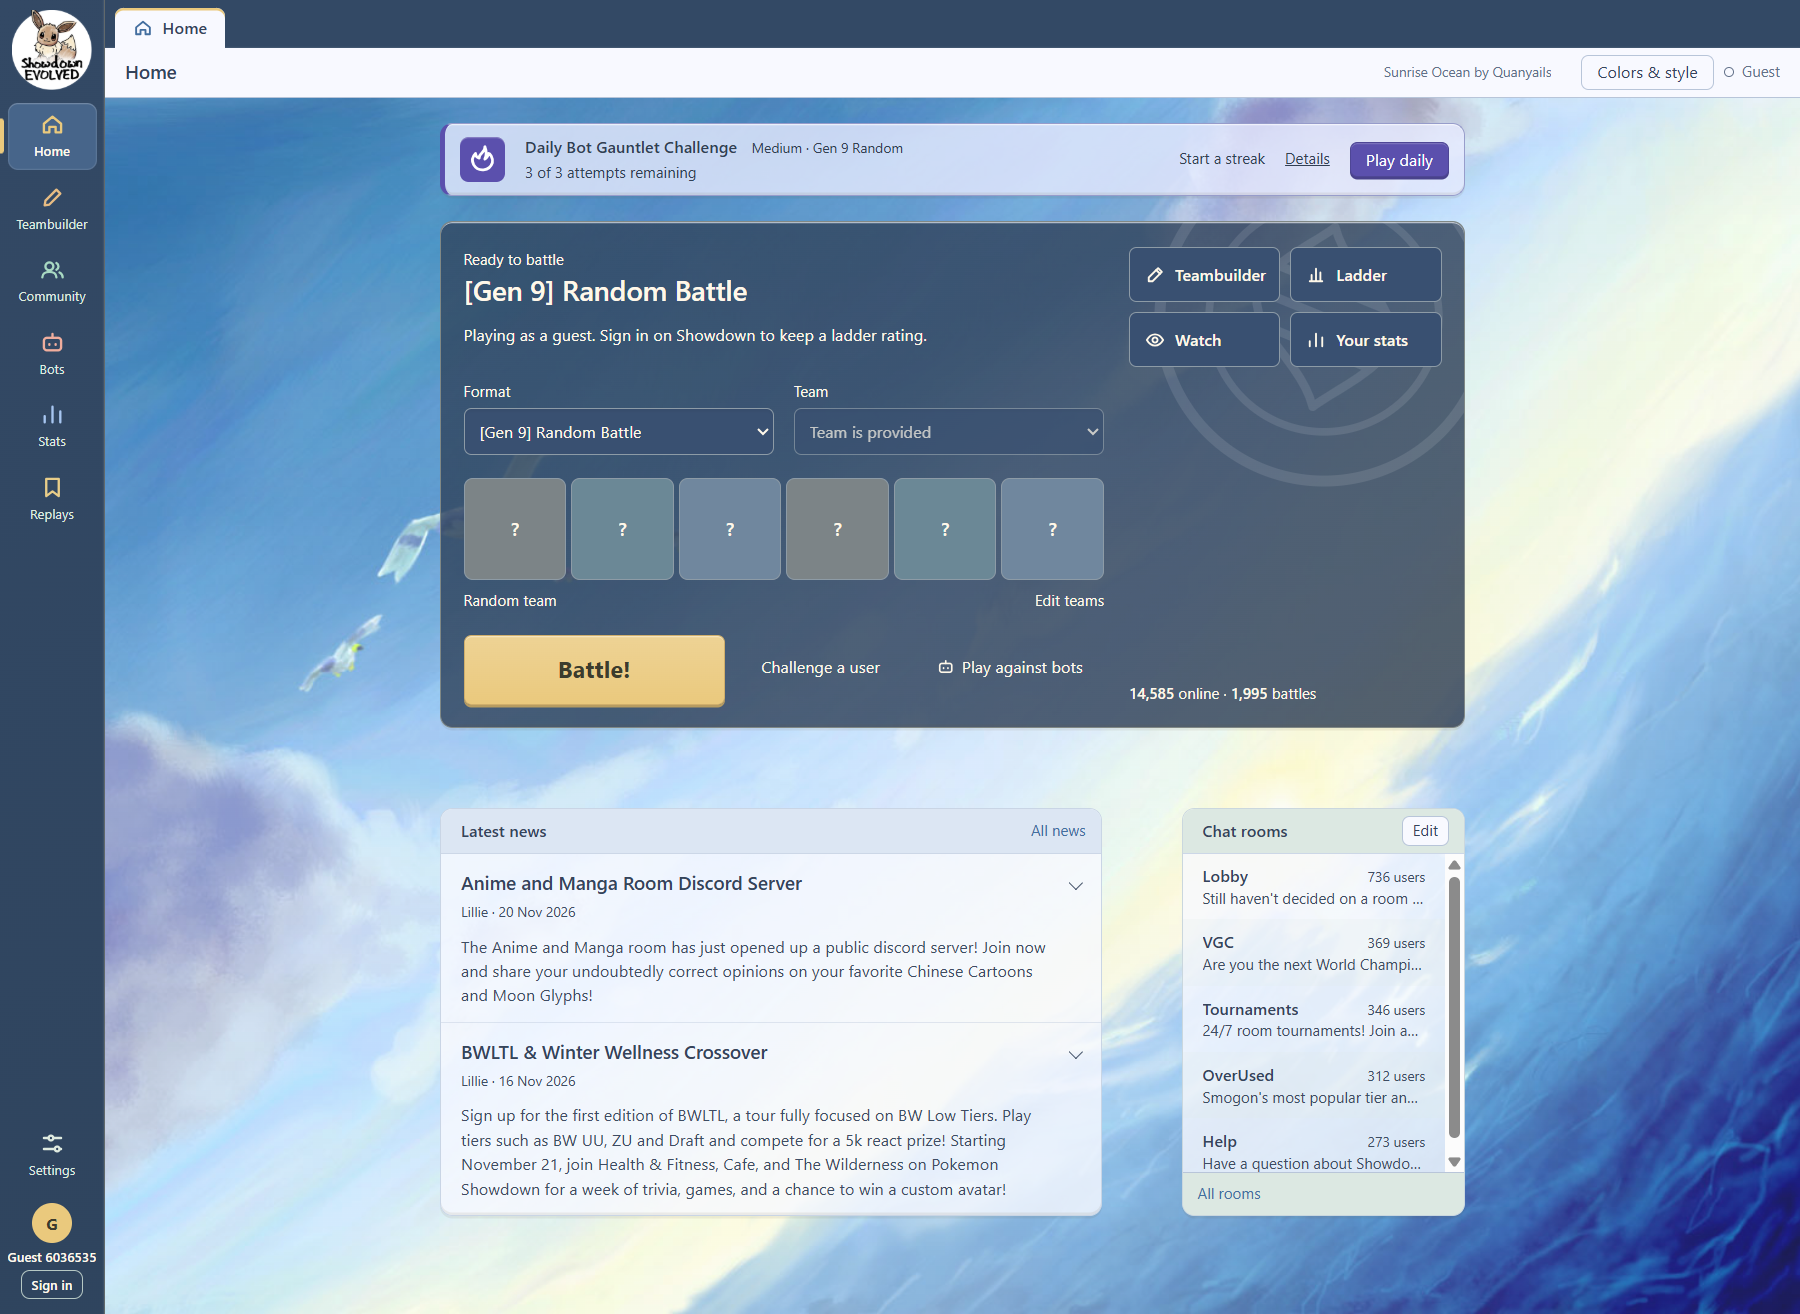
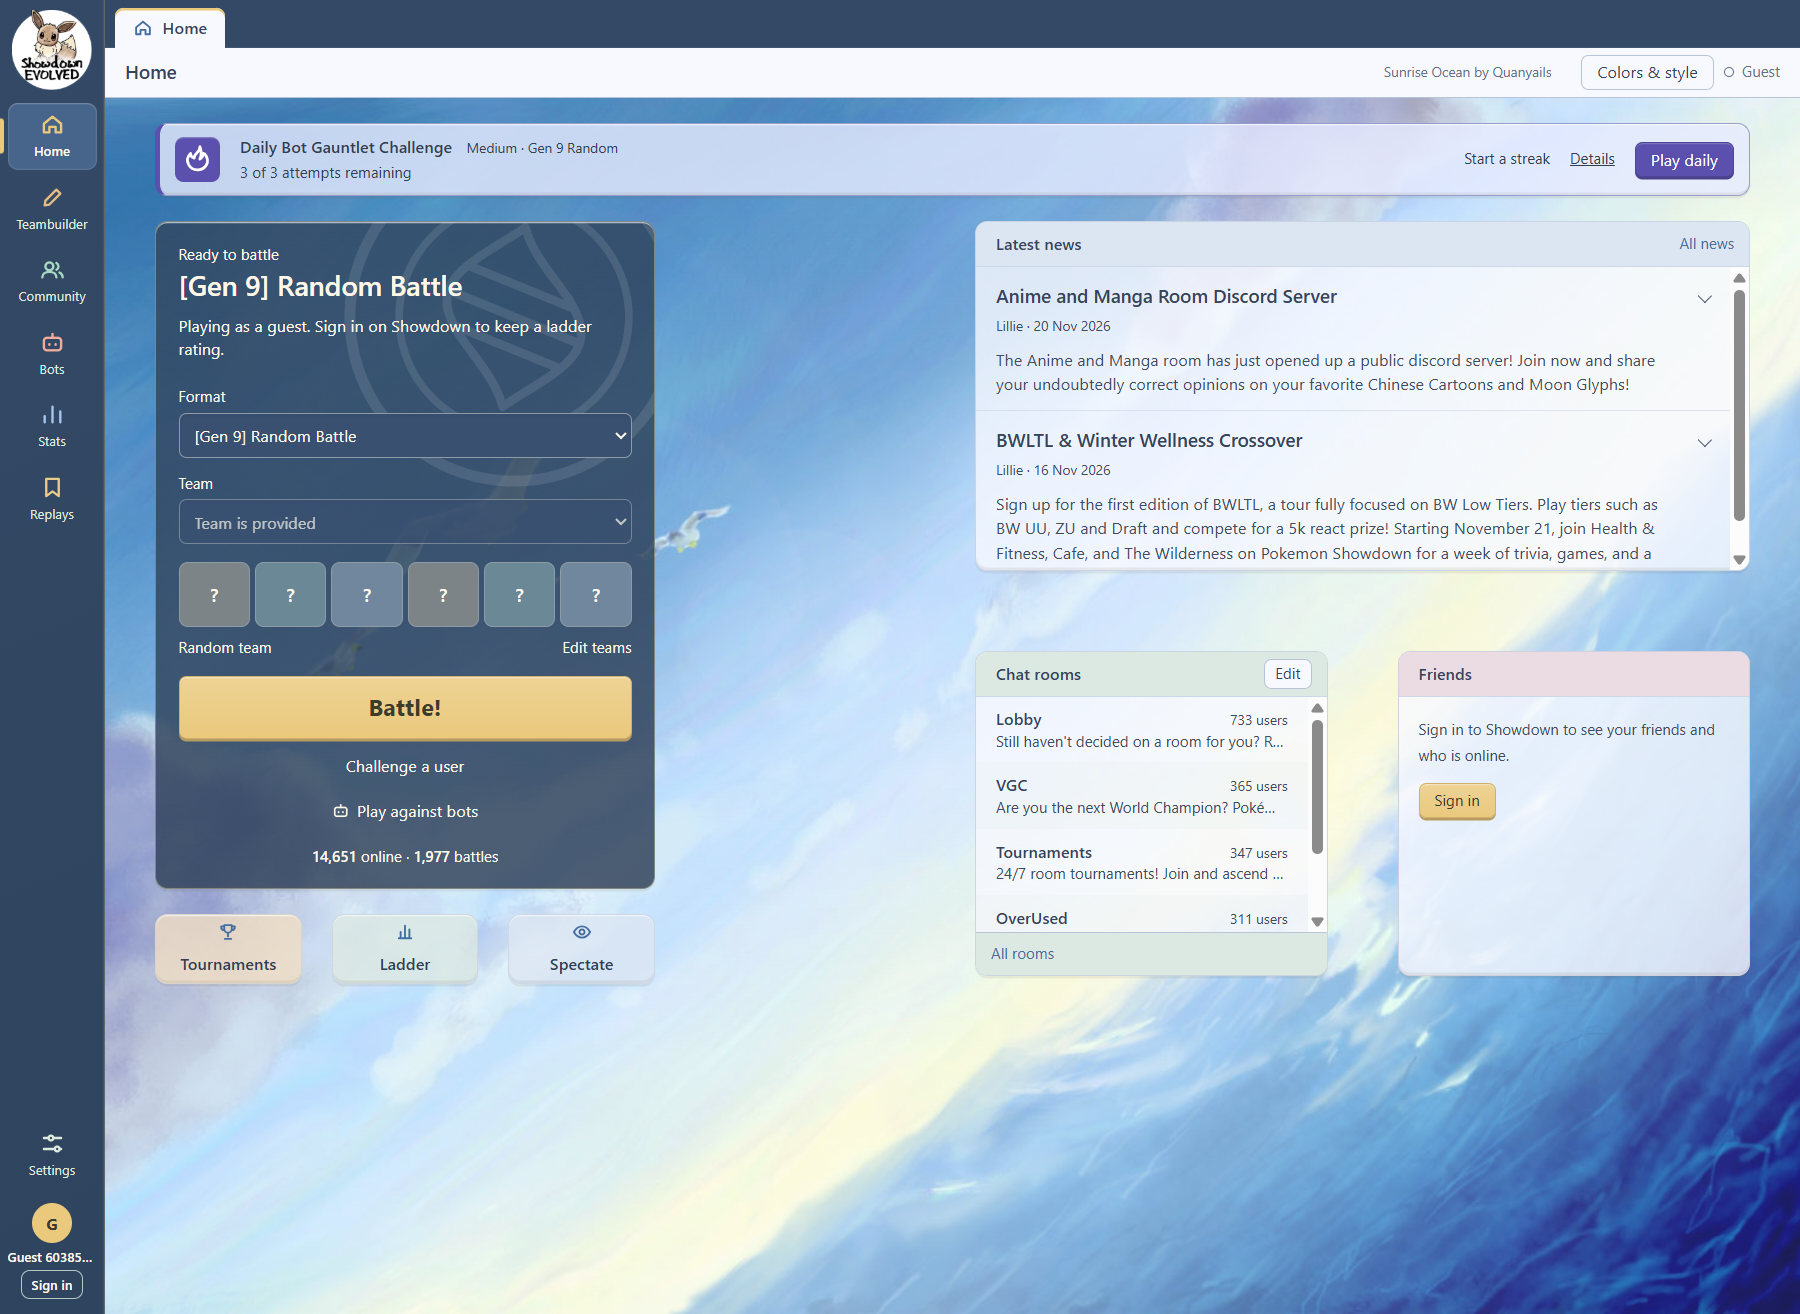
docs: use classic Home layout for README preview

diff --git a/README.md b/README.md
@@ -12,9 +12,9 @@ This is an early preview. Windows is unsigned, and Mac builds are not Apple-nota
 
 ## Home preview
 
-[![Pokemon Showdown Evolved Home in light mode, with Daily Bot Gauntlet Challenge, battle setup, news, and chat rooms](assets/readme/home-light.png)](assets/readme/home-light.png)
+[![Pokemon Showdown Evolved classic Home in light mode, with Daily Bot Gauntlet Challenge, battle setup, news, and chat rooms](assets/readme/home-light.png)](assets/readme/home-light.png)
 
-The updated Home layout in light mode, with the Evolved sidebar, Sunrise Ocean background, and Daily Bot Gauntlet Challenge. Captured from the running app in an isolated guest profile on November 20, 2026. Click the image to view it at full resolution. [See a Foul Play battle with Showdex](assets/readme/battle.png).
+The classic Home layout in light mode, with the Evolved sidebar, Sunrise Ocean background, and Daily Bot Gauntlet Challenge. Captured from the running app in an isolated guest profile on November 20, 2026. Click the image to view it at full resolution. [See a Foul Play battle with Showdex](assets/readme/battle.png).
 
 ## Features
 
